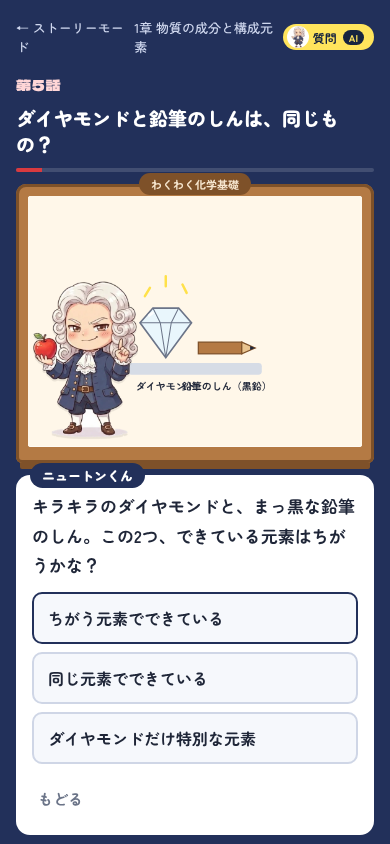
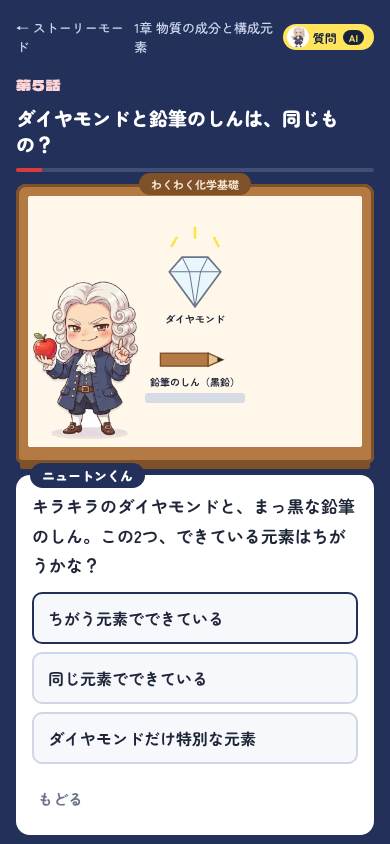
T-41（途中）: 化学のストーリー（作成中のものをいったん保存）
Claude-Session: https://claude.ai/code/session_011omp4Mg4wi1i7SftFg17Rj

Changed region(s): [[0.3385, 0.2773, 0.6769, 0.4929]]

diff --git a/story/chem08.js b/story/chem08.js
@@ -79,15 +79,14 @@ const dot = (x, y, r) => '<circle cx="' + x.toFixed(1) + '" cy="' + y.toFixed(1)
 // やかんの水蒸気を風船にとじこめると、ふくらむ
 SCENES['c8-kettle'] = () => anim(svg(
   '<rect y="250" width="400" height="50" fill="' + C.gray2 + '"/>' +
-  '<path d="M140 250 q0 -70 60 -70 q60 0 60 70 z" fill="' + C.glass + '"/><rect x="180" y="168" width="40" height="12" rx="4" fill="' + C.ink + '"/>' +
-  '<path d="M250 210 l40 -30" stroke="' + C.glass + '" stroke-width="12" stroke-linecap="round"/>' +
-  '<ellipse data-bl cx="300" cy="160" rx="10" ry="12" fill="' + C.fire + '" opacity=".85"/>' +
-  burner(200, 262, C.fire, 10) +
-  T(200, 40, '水を熱して、水蒸気を風船へ', 13, C.ink), C.gray),
+  '<path d="M150 250 q0 -56 46 -56 q46 0 46 56 z" fill="' + C.glass + '"/><rect x="180" y="184" width="32" height="10" rx="4" fill="' + C.ink + '"/>' +
+  '<path d="M232 222 l20 -24" stroke="' + C.glass + '" stroke-width="10" stroke-linecap="round"/>' +
+  '<ellipse data-bl cx="254" cy="186" rx="8" ry="10" fill="' + C.fire + '" opacity=".85"/>' +
+  T(200, 282, '水を熱して、水蒸気を風船へ', 13, C.ink), C.gray),
   3, (root, t) => {
     const k = Math.min(1, t / 2.8), b = root.querySelector('[data-bl]');
-    b.setAttribute('rx', (10 + 34 * k).toFixed(1)); b.setAttribute('ry', (12 + 40 * k).toFixed(1));
-    b.setAttribute('cx', (300 + 22 * k).toFixed(1)); b.setAttribute('cy', (160 - 40 * k).toFixed(1));
+    b.setAttribute('rx', (8 + 22 * k).toFixed(1)); b.setAttribute('ry', (10 + 28 * k).toFixed(1));
+    b.setAttribute('cx', '254'); b.setAttribute('cy', (186 - 38 * k).toFixed(1));
   }, 'もう一度ふくらませる');
 
 // 粒の目で見る：水（液体）と水蒸気（気体）。粒の大きさも数も同じ、すきまが広がる
@@ -106,9 +105,9 @@ SCENES['c8-model'] = () => anim(svg(
   '<rect x="160" y="180" width="70" height="60" rx="4" fill="#fff" stroke="' + C.glass + '" stroke-width="2"/>' +
   '<rect x="258" y="54" width="124" height="186" rx="6" fill="#fff" stroke="' + C.glass + '" stroke-width="2"/>' +
   '<g data-p></g>' + T(195, 262, '水（12こ）', 12, C.ink) + T(320, 262, '水蒸気（12こ）', 12, C.ink) +
-  T(270, 34, '粒の大きさも数も同じ', 13, C.coat), C.gray), 4, modelDraw, 'もう一度見る');
+  T(270, 288, '粒の大きさも数も同じ', 13, C.coat), C.gray), 4, modelDraw, 'もう一度見る');
 
-SCENES['c8-answer'] = answerCard('すきまが広がった！', '粒の大きさも数も変わらない', 'clamp(24px,8vw,40px)');
+SCENES['c8-answer'] = answerCard('粒は同じ！', '粒の大きさも数も同じ。すきまが広がる', 'clamp(22px,7vw,30px)');
 
 // 水 1 g（約 1 mL）→ 100 ℃ の水蒸気 約 1.7 L
 SCENES['c8-volume'] = () => svg(
@@ -142,7 +141,7 @@ function thermoScene(msg){
     '<rect x="160" y="80" width="12" height="154" rx="6" fill="#fff" stroke="' + C.glass + '"/><rect data-bar x="162" y="160" width="8" height="74" fill="' + C.fire + '"/>' +
     '<circle cx="166" cy="240" r="9" fill="' + C.fire + '"/>' +
     T(166, 268, '', 13, C.ink, 'middle', ' data-tc') + T(166, 284, '', 12, C.muted, 'middle', ' data-tk') +
-    '<g data-p></g>' + T(294, 52, msg, 13, C.coat), C.gray);
+    '<g data-p></g>' + T(294, 256, msg, 13, C.coat), C.gray);
 }
 SCENES['c8-hot'] = () => anim(thermoScene('温度を上げると…'), 3.5, (r, t) => thermo(r, t, [0, 100]), 'もう一度見る');
 SCENES['c8-cold'] = () => anim(thermoScene('温度を下げていくと…'), 3.5, (r, t) => thermo(r, t, [100, -273]), 'もう一度見る');

diff --git a/story/chem04.js b/story/chem04.js
@@ -107,14 +107,14 @@ SCENES['c4-milk'] = () => svg(LAB +
   bone(232, 200, 0.8) + T(232, 176, '骨', 13, INK));
 
 // 場面3：金属のカルシウム（銀白色）を水に入れると、あわ（水素）を出してとけていく
-SCENES['c4-metal'] = () => anim(svg(LAB + '<g data-b></g>' + beaker(70, 230, 120, 100, 72) +
+SCENES['c4-metal'] = () => anim(svg(LAB + beaker(70, 230, 120, 100, 72) + '<g data-b></g>' +
   T(130, 270, '金属のカルシウム（銀白色）を水に入れると…', 12, INK) + T(130, 288, 'あわ（水素）を出して、とけていく', 12, RED, 'middle', ' data-k opacity="0"')),
   4, (root, t) => {
-    const fall = Math.min(1, t / 0.8), y = 96 + fall * (214 - 96), s = Math.max(0.35, 1 - Math.max(0, t - 0.8) * 0.2);
-    let b = '<rect x="' + (130 - 13 * s) + '" y="' + (y - 12 * s) + '" width="' + (26 * s) + '" height="' + (18 * s) + '" rx="3" fill="' + SILVER + '" stroke="' + MUTED + '" stroke-width="2"/>';
+    const fall = Math.min(1, t / 0.8), y = 96 + fall * (214 - 96), s = Math.max(0.5, 1 - Math.max(0, t - 0.8) * 0.16);
+    let b = '<rect x="' + (130 - 13 * s) + '" y="' + (y - 12 * s) + '" width="' + (26 * s) + '" height="' + (18 * s) + '" rx="3" fill="' + SILVER + '" stroke="' + INK + '" stroke-width="2"/>';
     if (t > 0.8) for (let i = 0; i < 9; i++){
       const k = ((t - 0.8) * 0.9 + i / 9) % 1, bx = 122 + (i * 23) % 18 - 4 + Math.sin(k * 6 + i) * 3, by = 210 - k * 50;
-      b += '<circle cx="' + bx.toFixed(1) + '" cy="' + by.toFixed(1) + '" r="' + (2 + i % 3) + '" fill="#fff" stroke="' + MUTED + '" stroke-width="1"/>';
+      b += '<circle cx="' + bx.toFixed(1) + '" cy="' + by.toFixed(1) + '" r="' + (3 + i % 3) + '" fill="#fff" stroke="' + NAVY + '" stroke-width="1.5"/>';
     }
     root.querySelector('[data-b]').innerHTML = b;
     root.querySelector('[data-k]').setAttribute('opacity', t > 1.4 ? 1 : 0);
@@ -155,7 +155,7 @@ SCENES['c4-gold'] = () => svg('<rect width="400" height="300" fill="#eef2f7"/>' 
   '<path d="M118 130 H164" stroke="' + RED + '" stroke-width="4" stroke-dasharray="6 5"/><path d="M164 120 L178 130 L164 140z" fill="' + RED + '"/>' +
   T(145, 108, '？', 28, RED) + T(145, 250, '元素がちがうものに、変えられる？', 14, NAVY));
 
-SCENES['c4-answer'] = answerCard('入っていない！', '骨の「カルシウム」は元素の名前', 'clamp(22px,7vw,34px)');
+SCENES['c4-answer'] = answerCard('入っていない！', '「カルシウム」は元素の名前', 'clamp(22px,7vw,34px)');
 
 /* ---- 脚本 ---- */
 window.EPISODE = {

diff --git a/story/chem05.js b/story/chem05.js
@@ -91,10 +91,10 @@ function pencil(x, y, s){
     '<path d="M28 -2.5 L34 0 L28 2.5 Z" fill="' + C.black + '"/></g>';
 }
 SCENES['c5-two'] = () => svg(
-  '<rect x="120" y="200" width="160" height="14" rx="4" fill="' + C.gray2 + '"/>' +
-  diamond(165, 165, 1.1) + pencil(238, 182, 1) +
-  T(165, 232, 'ダイヤモンド', 12, C.ink) + T(238, 232, '鉛筆のしん（黒鉛）', 12, C.ink) +
-  '<path d="M140 120 l6 -10 M190 116 l-5 -10 M165 108 v-12" stroke="' + C.fire2 + '" stroke-width="3" stroke-linecap="round"/>', '#fff7e9');
+  '<rect x="140" y="236" width="120" height="12" rx="4" fill="' + C.gray2 + '"/>' +
+  diamond(200, 104, 1.1) + T(200, 152, 'ダイヤモンド', 12, C.ink) +
+  pencil(196, 196, 1.1) + T(200, 228, '鉛筆のしん（黒鉛）', 12, C.ink) +
+  '<path d="M172 60 l6 -10 M228 60 l-5 -10 M200 50 v-12" stroke="' + C.fire2 + '" stroke-width="3" stroke-linecap="round"/>', '#fff7e9');
 
 // 燃やすと、どちらも二酸化炭素だけ
 SCENES['c5-burn'] = () => anim(svg(
@@ -103,8 +103,8 @@ SCENES['c5-burn'] = () => anim(svg(
   '<g data-d>' + diamond(80, 140, 0.8) + '</g>' +
   '<g data-g><rect x="176" y="134" width="48" height="14" rx="2" fill="' + C.black + '"/></g>' +
   '<g data-co2></g>' +
-  T(80, 282, 'ダイヤモンド', 12, C.ink) + T(200, 282, '黒鉛', 12, C.ink) +
-  T(140, 26, '燃やすと…', 14, C.ink, 'middle', ' data-msg'), C.gray),
+  T(80, 264, 'ダイヤモンド', 12, C.ink) + T(200, 264, '黒鉛', 12, C.ink) +
+  T(140, 288, '燃やすと…', 14, C.ink, 'middle', ' data-msg'), C.gray),
   3.2, (root, t) => {
     const k = Math.min(1, t / 3);
     root.querySelector('[data-d]').setAttribute('transform', 'translate(80 140) scale(' + (1 - 0.6 * k).toFixed(3) + ') translate(-80 -140)');
@@ -122,7 +122,7 @@ SCENES['c5-burn'] = () => anim(svg(
     root.querySelector('[data-msg]').textContent = t >= 3 ? 'どちらも 二酸化炭素（CO₂）だけ！' : '燃やすと…';
   }, 'もう一度燃やす');
 
-SCENES['c5-answer'] = answerCard('同じ炭素！', 'どちらも炭素 C だけでできている', 'clamp(30px,10vw,48px)');
+SCENES['c5-answer'] = answerCard('同じ炭素！', 'どちらも炭素 C だけでできている', 'clamp(24px,8vw,38px)');
 
 // 炭素原子のつながり方：ダイヤモンド（立体のあみ目）と黒鉛（うすい層が重なる）
 SCENES['c5-structure'] = () => {

diff --git a/story/chem07.js b/story/chem07.js
@@ -128,7 +128,7 @@ function curveScene(){
 SCENES['c7-curve'] = () => anim(curveScene(), 4, curveDraw, 'もう一度熱する');
 SCENES['c7-curve-still'] = () => still(curveScene(), 4, curveDraw);
 
-SCENES['c7-answer'] = answerCard('止まるところがある！', '0 ℃ と 100 ℃ で、温度が平らになる', 'clamp(24px,8vw,40px)');
+SCENES['c7-answer'] = answerCard('止まる！', 'とちゅうの 0 ℃ と 100 ℃ で、温度が止まる', 'clamp(26px,8.5vw,40px)');
 
 // 粒のようす：固体はならんで小さくゆれる、液体は動き回る、気体は飛び回る
 SCENES['c7-particles'] = () => {
@@ -154,7 +154,7 @@ SCENES['c7-particles'] = () => {
 
 // 三態の図と、矢印の名前
 SCENES['c7-states'] = () => {
-  const P = { s: [200, 230], l: [340, 230], g: [270, 90] };
+  const P = { s: [180, 236], l: [360, 236], g: [270, 72] };
   const node = (k, label) => '<circle cx="' + P[k][0] + '" cy="' + P[k][1] + '" r="30" fill="' + C.cream + '" stroke="' + C.creamLine + '" stroke-width="2"/>' + T(P[k][0], P[k][1] + 5, label, 14, C.ink);
   const arr = (a, b, off, label, lx, ly) => {
     const [x1, y1] = P[a], [x2, y2] = P[b], dx = x2 - x1, dy = y2 - y1, L = Math.hypot(dx, dy), ux = dx / L, uy = dy / L, nx = -uy * off, ny = ux * off;
@@ -163,9 +163,9 @@ SCENES['c7-states'] = () => {
   };
   return svg('<defs><marker id="c7ar" markerWidth="8" markerHeight="8" refX="6" refY="4" orient="auto"><path d="M0 0 L8 4 L0 8 z" fill="' + C.fire + '"/></marker></defs>' +
     node('s', '固体') + node('l', '液体') + node('g', '気体') +
-    arr('s', 'l', -8, '融解', 270, 212) + arr('l', 's', -8, '凝固', 270, 262) +
-    arr('l', 'g', -8, '蒸発', 336, 154) + arr('g', 'l', -8, '凝縮', 282, 172) +
-    arr('s', 'g', 8, '昇華', 194, 154) + arr('g', 's', 8, '凝華', 254, 172), C.gray);
+    arr('s', 'l', -8, '融解 →', 270, 222) + arr('l', 's', -8, '← 凝固', 270, 266) +
+    arr('l', 'g', -8, '蒸発', 344, 150) + arr('g', 'l', -8, '凝縮', 290, 168) +
+    arr('s', 'g', 8, '昇華', 196, 150) + arr('g', 's', 8, '凝華', 250, 168), C.gray);
 };
 
 /* ---- 脚本 ---- */

diff --git a/story/chem03.js b/story/chem03.js
@@ -136,7 +136,7 @@ SCENES['c3-cards'] = () => svg(T(147, 30, 'ほかの分け方', 15, NAVY) +
   card3(22, 182, '昇華法', '固体 → 気体 → 固体 になる性質を使う', '例：ヨウ素') +
   T(147, 270, 'どれも、物質の性質のちがいを使う', 13, NAVY), CREAM);
 
-SCENES['c3-answer'] = answerCard('何色かに分かれる！', '黒は、いくつかの色のまざりもの', 'clamp(18px,6vw,30px)');
+SCENES['c3-answer'] = answerCard('分かれる！', '黒は、何色かのまざりもの', 'clamp(26px,9vw,42px)');
 
 /* ---- 脚本 ---- */
 window.EPISODE = {
